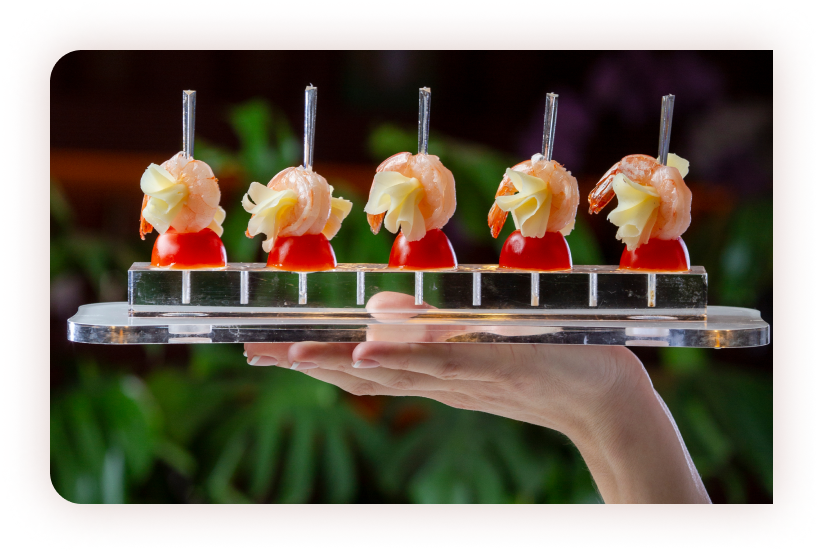
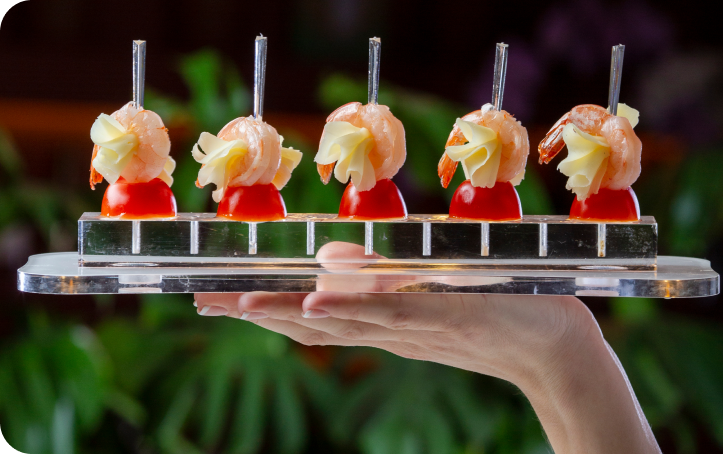
ssssss

diff --git a/src/html/home/_blog.html b/src/html/home/_blog.html
@@ -1,0 +1,45 @@
+<section class="blog background">
+
+  <div class="container">
+
+    <div class="blog__nav">
+      <h2>Blog</h2>
+
+      <a class="btn" href="#">View all</a>
+    </div>
+
+    <ul class="blog__list">
+    
+ <li class="blog__item">
+        <article class="blog__cards">
+          <img src="./images/home/blog/breakfast.jpg"
+            alt="Breakfast Catering Done Right: Tips for a Delicious Morning Spread" width="390" height="444"
+            loading="lazy" />
+          <div class="blog__content">
+            <h3>
+              Breakfast Catering Done Right: Tips for a Delicious Morning Spread
+            </h3>
+          </div>
+          <a class="blog__link" href="#"></a>
+        </article>
+      </li>
+
+      <li class="blog__item">
+        <article class="blog__cards">
+          <img src="./images/home/blog/cultural.jpg"
+            alt="Breakfast Catering Done Right: Tips for a Delicious Morning Spread" width="390" height="444"
+            loading="lazy" />
+          <div class="blog__content">
+            <h3>
+              Catering for Cultural Celebrations: Honoring Traditions through Food
+            </h3>
+          </div>
+          <a class="blog__link" href="#"></a>
+        </article>
+      </li> 
+
+    </ul>
+
+  </div>
+
+</section>

diff --git a/src/scss/pages/blog/_blog.scss b/src/scss/pages/blog/_blog.scss
@@ -1,31 +1,31 @@
-@use "../../utils/functions/" as *;
-@use "../../utils/mixins/" as *;
+// @use "../../utils/functions/" as *;
+// @use "../../utils/mixins/" as *;
 
-.blog {
-  &__list {
-    display: grid;
-    grid-auto-rows: minmax(min-content, auto);
-    grid-template-columns: repeat(2, 1fr);
-    gap: 24px;
+// .blog {
+//   &__list {
+//     display: grid;
+//     grid-auto-rows: minmax(min-content, auto);
+//     grid-template-columns: repeat(2, 1fr);
+//     gap: 24px;
 
-    @include media(mobile-l) {
-      grid-template-columns: 1fr;
-    }
-  }
+//     @include media(mobile-l) {
+//       grid-template-columns: 1fr;
+//     }
+//   }
 
-  h1 {
-    margin-bottom: 2.4rem;
-    font-size: clamp(32px, 1.5rem + 1.6667vi, 48px);
-  }
+//   h1 {
+//     margin-bottom: 2.4rem;
+//     font-size: clamp(32px, 1.5rem + 1.6667vi, 48px);
+//   }
 
-  h2 {
-    margin-bottom: 24px;
-    font-size: clamp(22px, 1.1528rem + 1.1111vi, 40px);
-  }
+//   h2 {
+//     margin-bottom: 24px;
+//     font-size: clamp(22px, 1.1528rem + 1.1111vi, 40px);
+//   }
 
-  @include media(mobile-m) {
-    br {
-      display: none;
-    }
-  }
-}
+//   @include media(mobile-m) {
+//     br {
+//       display: none;
+//     }
+//   }
+// }

diff --git a/src/scss/pages/home/_blog.scss b/src/scss/pages/home/_blog.scss
@@ -1,0 +1,46 @@
+@use "../../utils/functions/" as *;
+@use "../../utils/mixins/" as *;
+
+.blog {
+  margin-bottom: 32px;
+
+  &__list {
+    display: grid;
+    grid-template-columns: repeat(3, 1fr);
+    margin-bottom: 2.4rem;
+    gap: 24px;
+
+    @include media(mobile-l) {
+      grid-template-columns: repeat(1, 1fr);
+    }
+  }
+
+  &__cards {
+    display: flex;
+    position: relative;
+    min-height: 444px;
+    background-position: center;
+    background-size: contain;
+    background-repeat: no-repeat;
+    border-radius: 24px;
+    z-index: 2;
+
+    &::before {
+      content: "";
+      position: absolute;
+      background: var(--gradient-violet);
+      inset: 0;
+    }
+
+    h3 {
+      align-self: end;
+      font-size: 24px;
+      line-height: 1.5;
+      color: var(--color-white);
+    }
+  }
+
+  .btn {
+    margin: 0 auto;
+  }
+}

diff --git a/src/scss/pages/home/_foods.scss b/src/scss/pages/home/_foods.scss
@@ -1,11 +1,13 @@
-@use "../../utils/functions/" as *;
-@use "../../utils/mixins/" as *;
+@use "../../utils/functions/"as *;
+@use "../../utils/mixins/"as *;
 
 .foods {
   margin-bottom: 32px;
+
   &__list {
     display: grid;
     grid-template-columns: repeat(3, 1fr);
+    margin-bottom: 2.4rem;
     gap: 24px;
 
     @include media(mobile-l) {
@@ -21,6 +23,7 @@
     border-radius: 300px 300px var(--radius-big) var(--radius-big);
     padding: clamp(16px, vw(48), 48px);
     background-color: var(--color-white);
+    box-shadow: var(--shadow);
     gap: 1.6rem;
 
     h3 {

diff --git a/src/scss/components/_btn.scss b/src/scss/components/_btn.scss
@@ -23,7 +23,7 @@
 
   &:hover,
   &:focus {
-    border-color: var(--color-white);
+    // border-color: var(--color-white);
     color: var(--color-white);
     background-color: var(--color-orange-600);
   }
@@ -52,8 +52,8 @@
     // padding: clamp(18px, vw(29), 29px) 24px clamp(18px, vw(29), 29px) 24px;
     // min-width: max-content;
     // max-width: 116px;
-    color: var(--color-orange-600);
-    background-color: var(--color-white);
+    color: var(--color-white);
+    background-color: var(--color-orange-600);
 
     &:hover,
     &:focus {

diff --git a/src/html/home/_about.html b/src/html/home/_about.html
@@ -10,7 +10,7 @@
     <div class="about__inner">
 
       <div class="about__image">
-        <img src="./images/home/about.png" alt="image of snacks" width="724" height="454" loading="lazy" />
+        <img src="./images/home/about.jpg" alt="image of snacks" width="724" height="454" loading="lazy" />
       </div>
 
       <div class="about__content">

diff --git a/src/scss/base/_variables.scss b/src/scss/base/_variables.scss
@@ -40,5 +40,11 @@
   rgba(241, 241, 241, 0.79) 100%
 );
 
+--gradient-violet: linear-gradient(180deg, #c9ada7 0%, #442c13 100%);
+
+
+// --gradient: linear-gradient(270deg, #f1f1f1 0%, #f1f1f1 49.75%, #f1f1f1 49.9%, #f1f1f1 100%);
+
+
 --shadow: 0 0 50px 0 rgba(201, 173, 167, 0.7);
 }

diff --git a/src/index.html b/src/index.html
@@ -18,6 +18,8 @@
 
       <include src="./html/home/_reviews.html"></include>
 
+      <include src="./html/home/_blog.html"></include>
+
       <include src="./html/_contact.html"></include>
 
       <div class="container">

diff --git a/src/scss/components/_about.scss b/src/scss/components/_about.scss
@@ -8,7 +8,8 @@
   background-color: var(--color-gray-100);
 
   &__inner {
-   display: flex;
+    display: flex;
+    border-radius: var(--radius-big);
     box-shadow: var(--shadow);
 
     // @include media(mobile-l) {

diff --git a/src/html/home/_foods.html b/src/html/home/_foods.html
@@ -43,7 +43,7 @@
       </li>
     </ul>
 
-    <a class="btn" href="#">See our full menu</a>
+    <a class="btn btn--reverse" href="#">See our full menu</a>
 
   </div>
 

diff --git a/src/scss/base/_base.scss b/src/scss/base/_base.scss
@@ -61,7 +61,7 @@ body {
 }
 
 .main {
-  padding-top: calc(var(--header-height) + 54px);
+  padding-top: var(--header-height) ;
 }
 
 .background {

diff --git a/src/scss/pages/home/_index.scss b/src/scss/pages/home/_index.scss
@@ -1,3 +1,4 @@
 @use "foods";
 @use "reviews";
 @use "choose";
+@use "blog";
